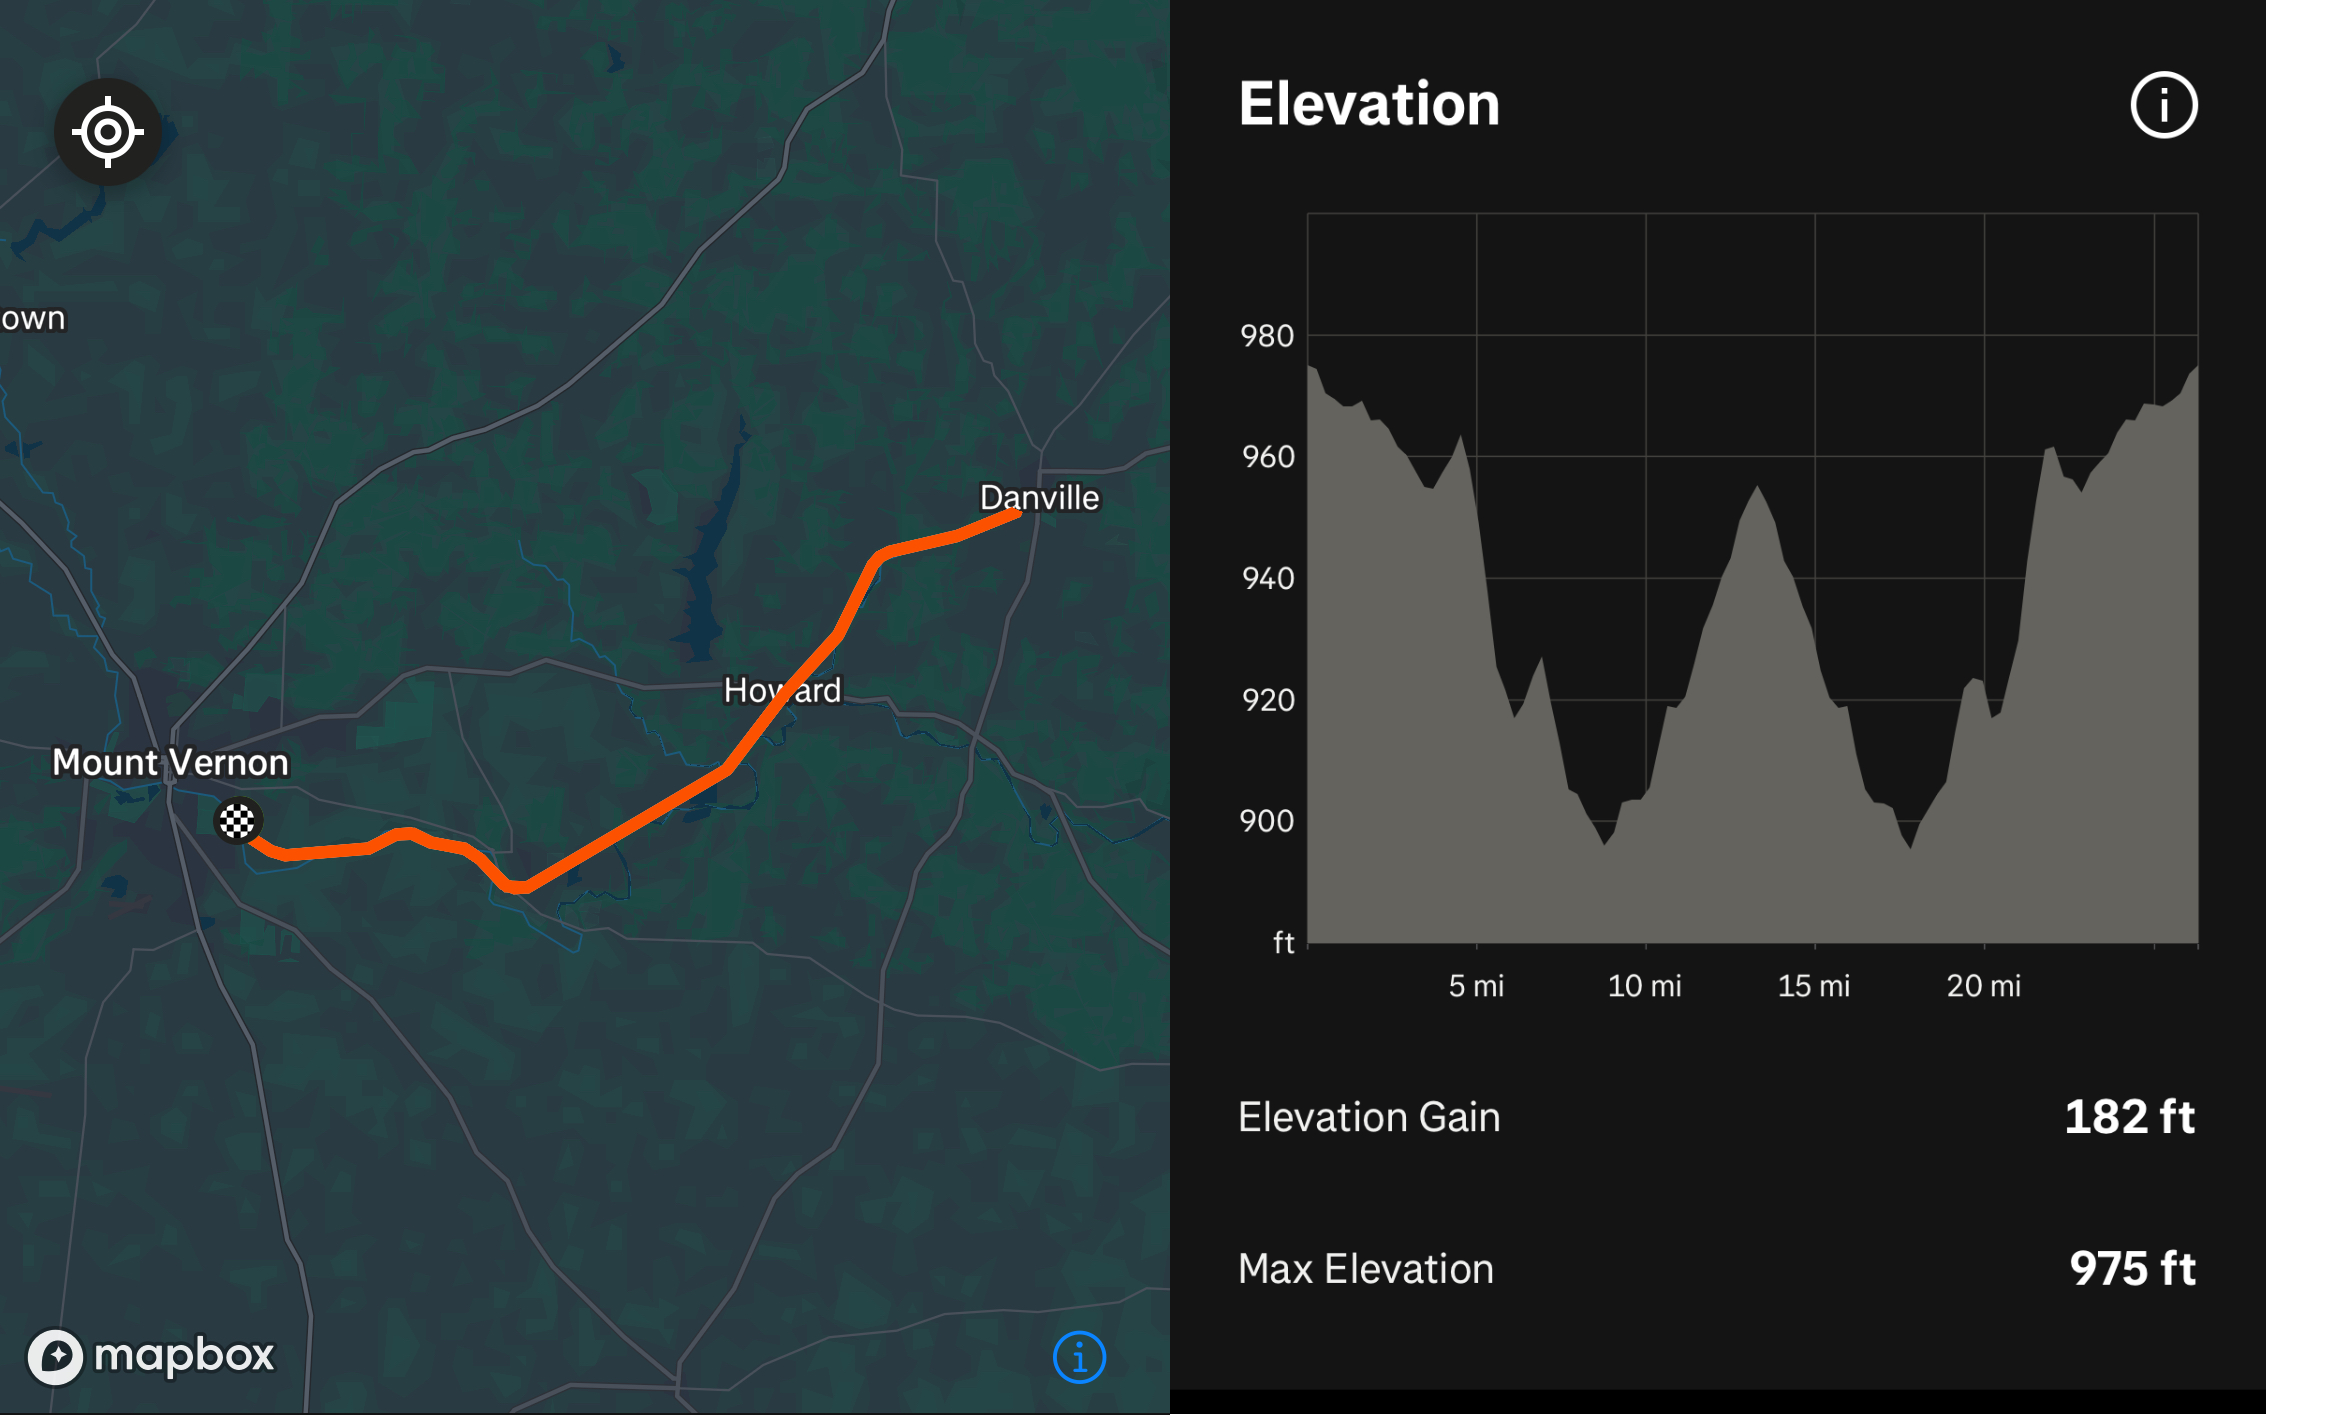
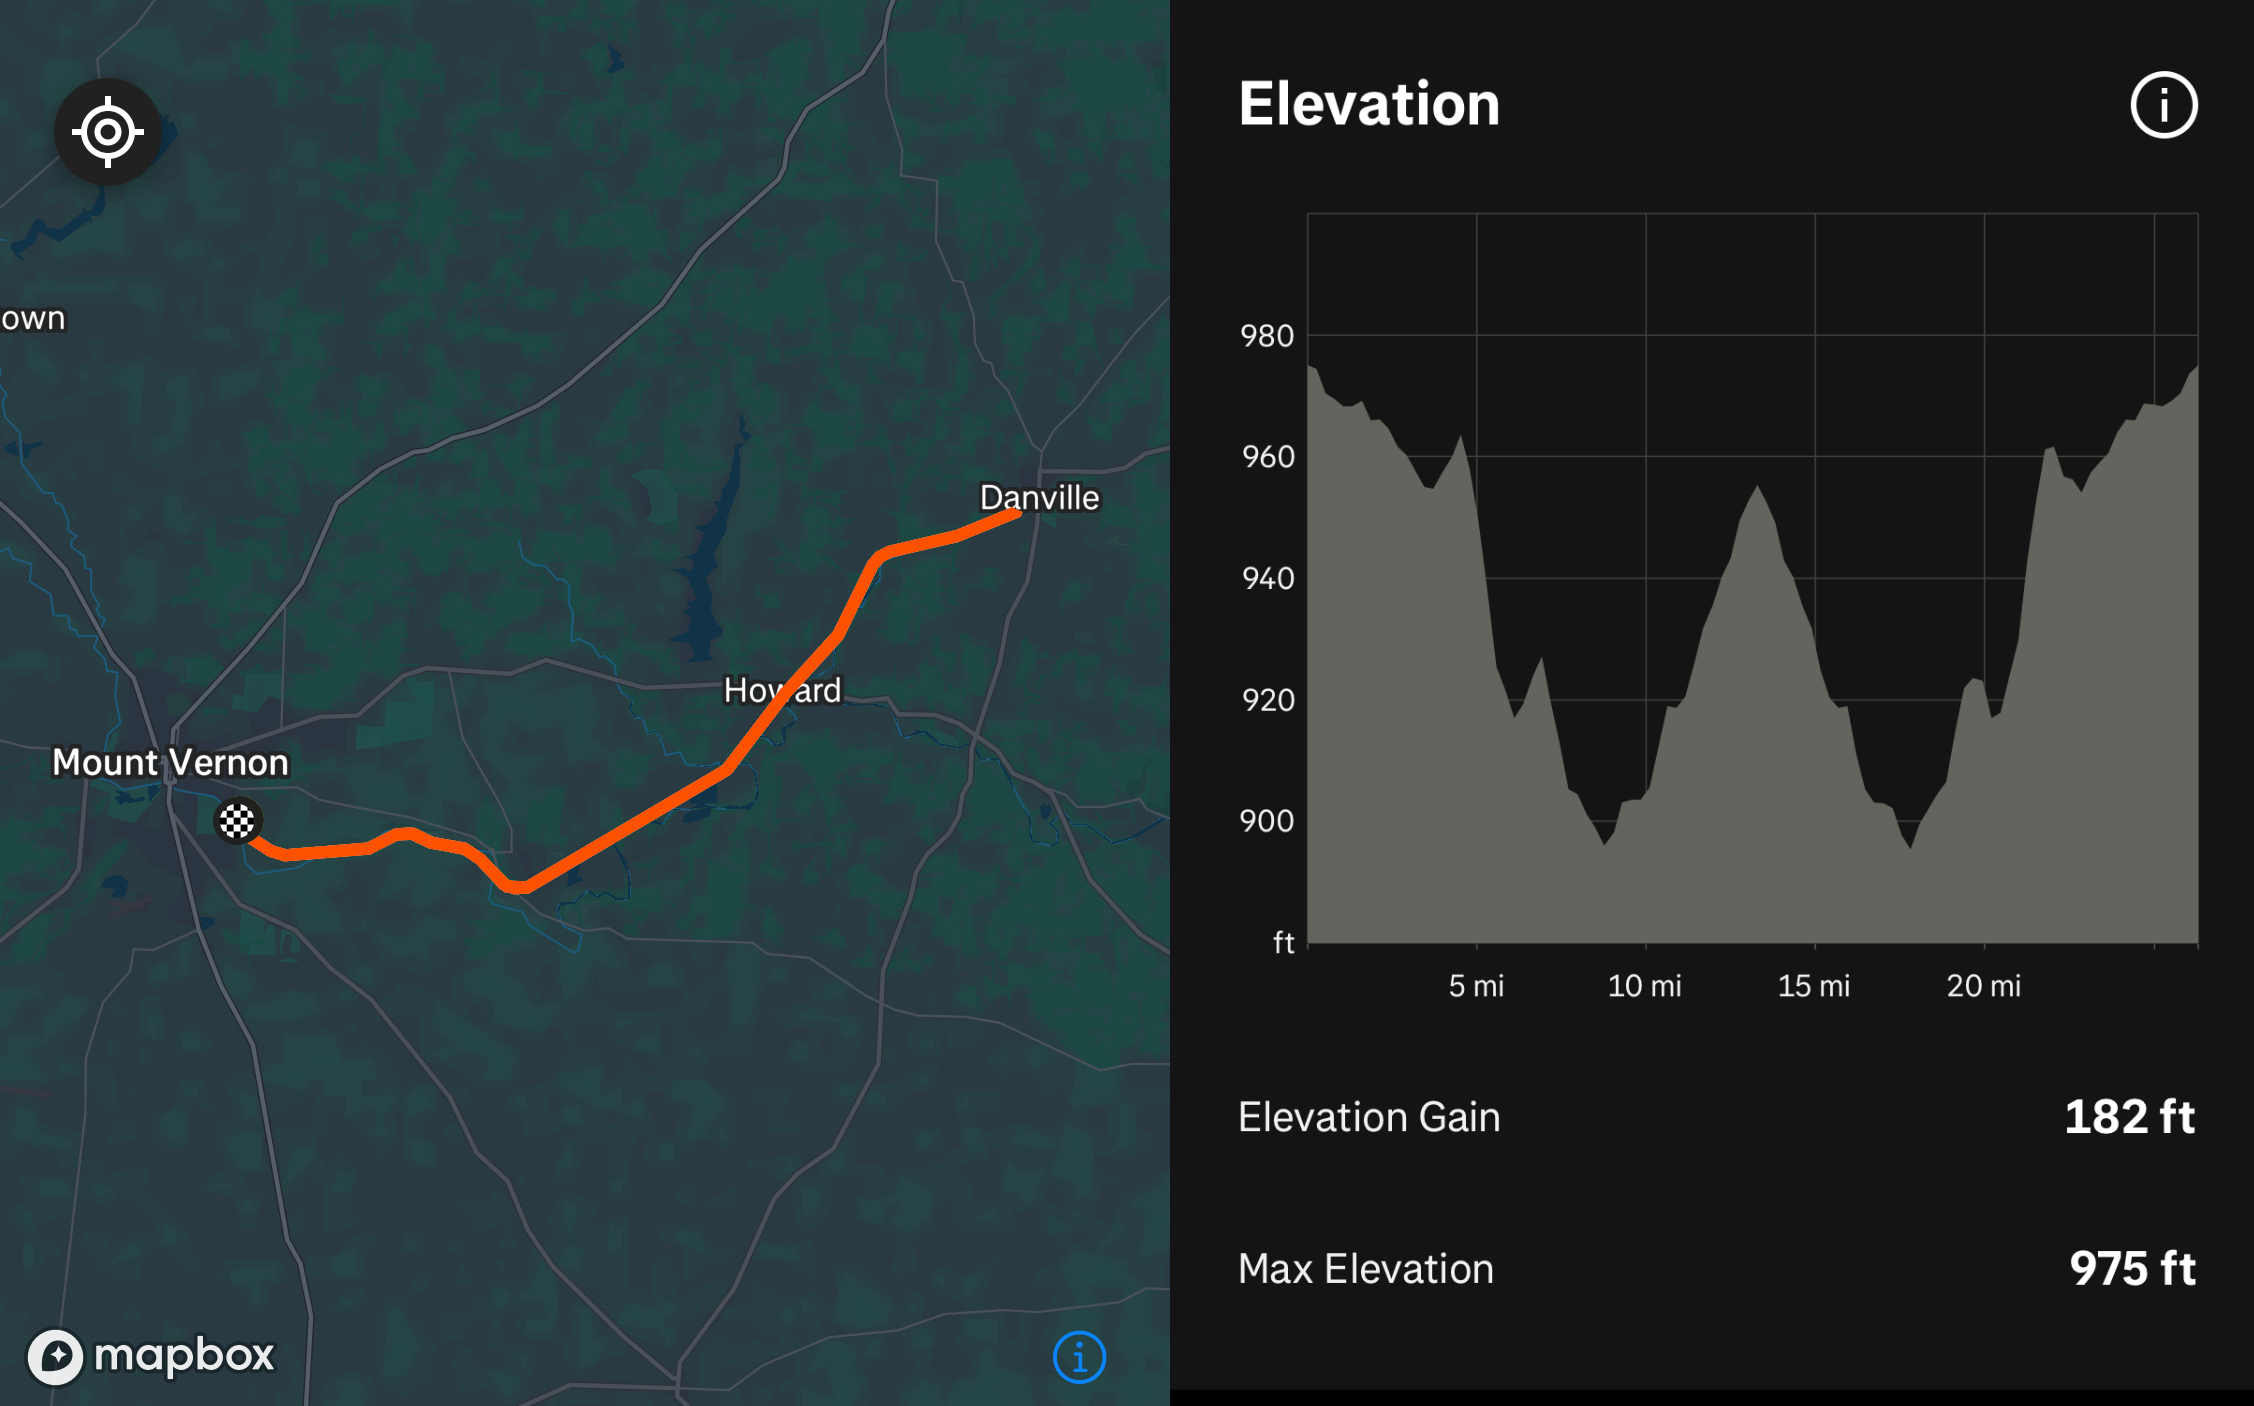
update images

diff --git a/_posts/2025-08-11-southern-half-of-the-hockhocking-adena-bikeway.md b/_posts/2025-08-11-southern-half-of-the-hockhocking-adena-bikeway.md
@@ -33,8 +33,7 @@ Rating The Ride
 Final score 6 / 10
 
 <p>
-<img src="/assets/hockhockingAdenaSouthMap.jpg" alt="Map of the Hockhocking Adena Bikeway southern-half with Chauncey, The Plains, Athens, and Canaanville, Ohio labeled">
-<img src="/assets/hockhockingAdenaSouthElevation.jpg" alt="Graph of elevation changes on the Hockhocking Adena Bikeway southern-half">
+<img src="/assets/hockhockingAdenaSouth02.png" alt="Map of the Hockhocking Adena Bikeway southern-half with Chauncey, The Plains, Athens, and Canaanville, Ohio labeled and a graph of elevation changeson the trail">
 </p>
 
 In August, 2025 my father-in-law and I biked the southern-half of the [Hockhocking Adena Bikeway](https://www.bikeathensohio.com/the-bikeway) from The Plains, Ohio to Canaanville, Ohio and back. The full trail is 22-miles long, so we split it into two out-and-back halves.

diff --git a/_posts/2025-08-07-hockhocking-adena-bikeway-northern-half.md b/_posts/2025-08-07-hockhocking-adena-bikeway-northern-half.md
@@ -35,8 +35,7 @@ Rating The Ride
 Final score 8.7 / 10
 
 <p>
-<img src="/assets/hockhockingAdenaNorthMap.jpg" alt="Map of the Hockhocking Adena Bikeway northern-half with Nelsonville, Chauncey, and The Plains, Ohio labeled">
-<img src="/assets/hockhockingAdenaNorthElevation.jpg" alt="Graph of elevation changes on the Hockhocking Adena Bikeway northern-half">
+<img src="/assets/hockhockingAdenaNorth02.png" alt="Map of the Hockhocking Adena Bikeway northern-half with Nelsonville, Chauncey, and The Plains, Ohio labeled and a graph of elevation changes on the trail">
 </p>
 
 In August, 2025 my father-in-law and I biked the northern-half of the [Hockhocking Adena Bikeway](https://www.bikeathensohio.com/the-bikeway) from The Plains, Ohio to Nelsonville, Ohio and back. The full trail is 22-miles long, so we split it into two out-and-back halves.

diff --git a/_posts/2025-08-01-kokosing-gap-trail.md b/_posts/2025-08-01-kokosing-gap-trail.md
@@ -31,7 +31,7 @@ Rating The Ride
 Final score 7 / 10
 
 <p>
-<img src="/assets/kokosingGap02.png" alt="Map of the Kokosing Gap trail with Mt. Vernon, Howard, and Danville, Ohio labeled and a graph of elevation changes">
+<img src="/assets/kokosingGap02.png" alt="Map of the Kokosing Gap trail with Mt. Vernon, Howard, and Danville, Ohio labeled and a graph of elevation changes on the trail">
 </p>
 
 In August, 2025 my father-in-law and I biked the [Kokosing Gap Trail](http://kokosinggaptrail.org) from Mount Vernon, Ohio to Danville, Ohio and back. 
